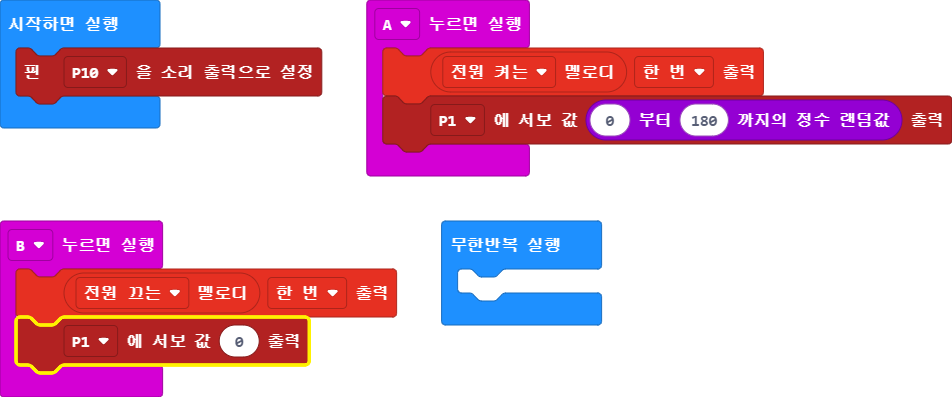
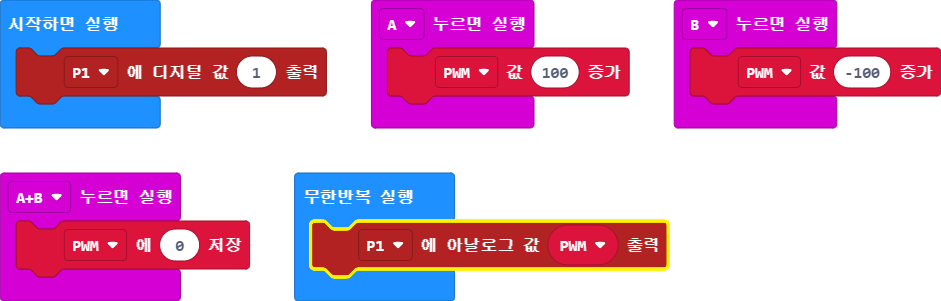
main.blocks, main.ts 업데이트하기

diff --git a/main.ts b/main.ts
@@ -1,12 +1,14 @@
 input.onButtonPressed(Button.A, function () {
-    music.startMelody(music.builtInMelody(Melodies.PowerUp), MelodyOptions.Once)
-    pins.servoWritePin(AnalogPin.P1, randint(0, 180))
+    PWM += 100
+})
+input.onButtonPressed(Button.AB, function () {
+    PWM = 0
 })
 input.onButtonPressed(Button.B, function () {
-    music.startMelody(music.builtInMelody(Melodies.PowerDown), MelodyOptions.Once)
-    pins.servoWritePin(AnalogPin.P1, 0)
+    PWM += -100
 })
-pins.setAudioPin(AnalogPin.P10)
+let PWM = 0
+pins.digitalWritePin(DigitalPin.P1, 1)
 basic.forever(function () {
-	
+    pins.analogWritePin(AnalogPin.P1, PWM)
 })
